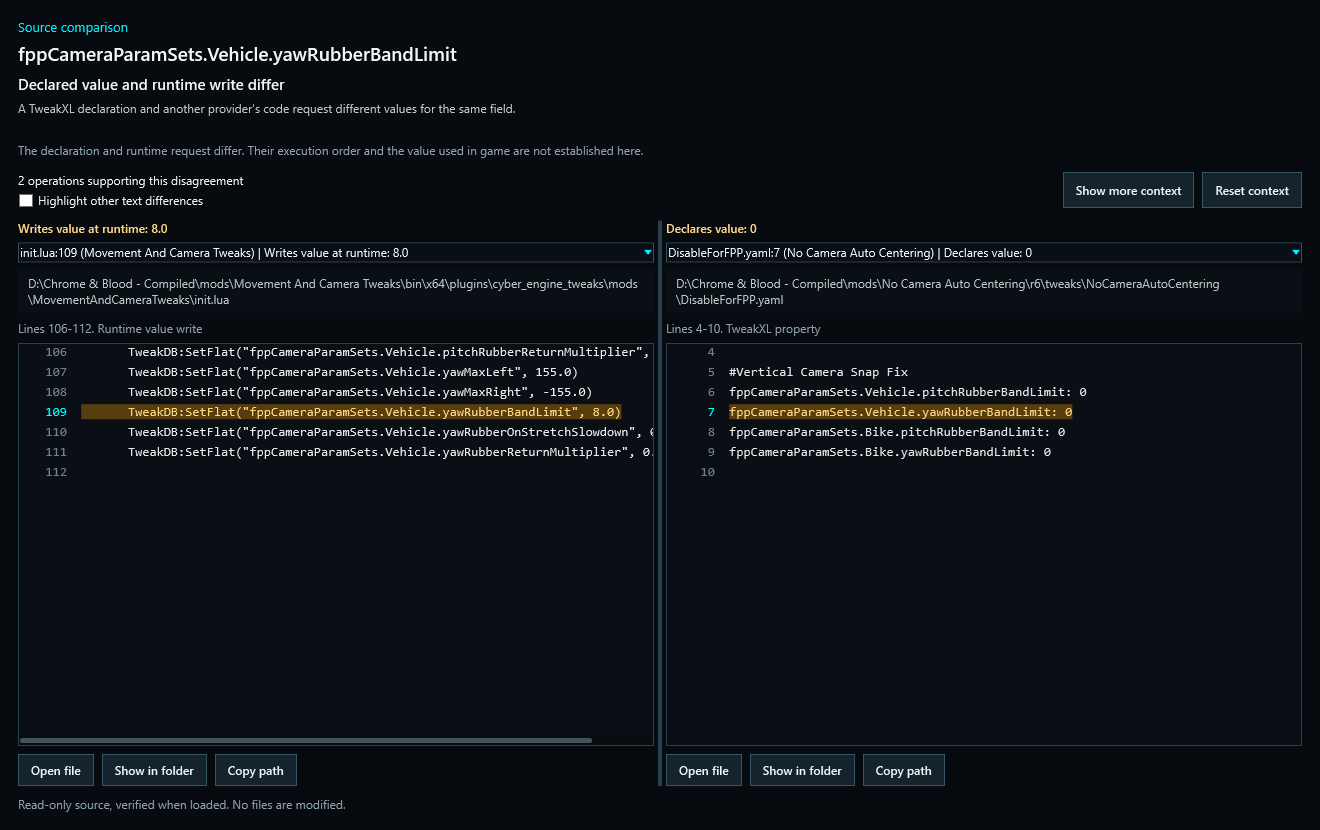
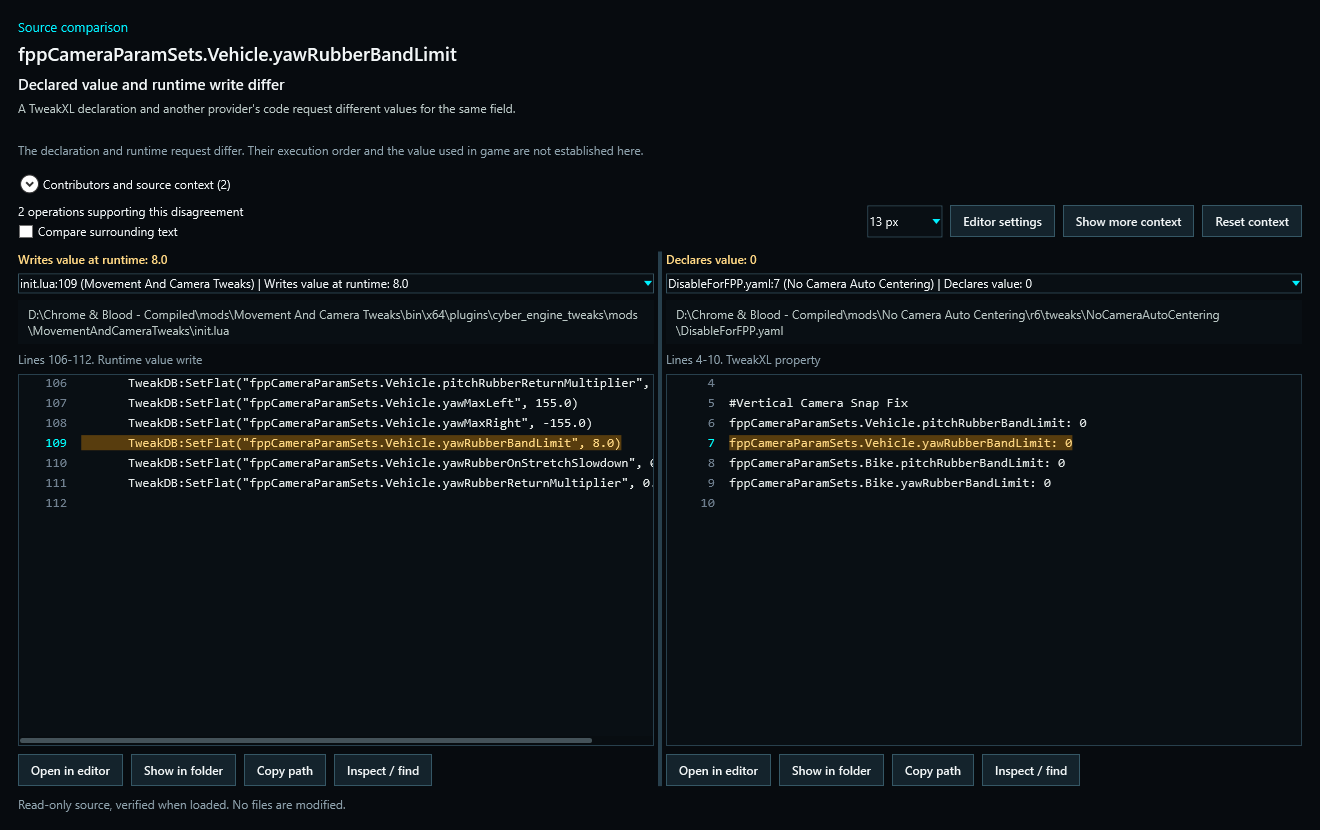
Prepare Conflict Studio 1.0.0

Changed region(s): [[0.0, 0.1807, 0.9939, 0.6024], [0.528, 0.9036, 0.8386, 0.9639], [0.0621, 0.9036, 0.3417, 0.9639]]

diff --git a/tests/ConflictStudio.App.Tests/DiagnosticLogTests.cs b/tests/ConflictStudio.App.Tests/DiagnosticLogTests.cs
@@ -117,7 +117,7 @@ $runner = {
     return 0
 }
 try {
-    & $scriptPath -RepositoryRoot $repositoryRoot -OutputRoot $outputRoot -CommandRunner $runner
+    & $scriptPath -Version '0.5.0' -RepositoryRoot $repositoryRoot -OutputRoot $outputRoot -CommandRunner $runner
     exit 9
 }
 catch {
@@ -144,7 +144,7 @@ catch {
     [TestMethod]
     public void ApplicationAssemblyUsesThePublishedProductVersion()
     {
-        Assert.AreEqual("0.5.0", typeof(MainWindow).Assembly.GetName().Version?.ToString(3));
+        Assert.AreEqual("1.0.0", typeof(MainWindow).Assembly.GetName().Version?.ToString(3));
     }
 
     private static string RepositoryRoot()

diff --git a/README.md b/README.md
@@ -2,7 +2,7 @@
 
 Conflict Studio shows what is happening inside one Cyberpunk 2077 mod profile. It reads MO2, Vortex, or the deployed game folder and traces archive order, loose files, REDmods, RedScript, CET hooks, TweakXL changes, and ArchiveXL manifests.
 
-This is a beta. Keep a backup and read the preview before changing archive order.
+Read the preview before changing archive order. The application backs up each applied order and offers Undo.
 
 ## What it does
 
@@ -10,11 +10,14 @@ This is a beta. Keep a backup and read the preview before changing archive order
 - Finds loose files installed by more than one active mod.
 - Separates replaced methods, wrappers, CET callbacks, and TweakXL changes instead of calling every shared target a conflict.
 - Opens the exact recorded operations behind supported code findings, with highlighted source and expandable context.
+- Lists the contributors to a code finding, searches source text, and follows supported local TweakXL record references.
+- Filters findings by a pair of mods while keeping other contributors visible.
 - Shows the selected source-file path and can open the file, show it in its folder, or copy the path.
 - Lets you show non-conflicting files only inside archives that also contain an overlap.
 - Previews archive-order changes before writing anything.
 - Backs up and verifies `modlist.txt`, then offers Undo.
 - Exports a privacy-filtered support report when something goes wrong.
+- Saves reviews, open notes and view preferences for each profile, and compares saved scans in Changes.
 
 Conflict Studio does not decide that two mods are compatible or incompatible. A shared method or record is only a place to inspect. Compile results, the loaded game state, and an in-game reproduction still matter.
 
@@ -42,7 +45,7 @@ See [GitHub releases](https://github.com/qcargile/Cyberpunk-Conflict-Studio/rele
 
 ## Install
 
-Download `Cyberpunk-Conflict-Studio-0.5.0-Nexus.zip` from Nexus Mods.
+The release ZIP is `Cyberpunk-Conflict-Studio-1.0.0.zip`. The same package supports MO2, Vortex and manual installations.
 
 ### Vortex
 
@@ -72,10 +75,10 @@ Run `ConflictStudio.exe` from the extracted folder, choose Manual, and select th
 The public package is a self-contained Windows x64 executable:
 
 ```powershell
-.\scripts\publish-win-x64.ps1 -Version 0.5.0
+.\scripts\publish-win-x64.ps1 -Version 1.0.0
 ```
 
-The script writes the release outside the repository and verifies the package manifest and ZIP contents. Release settings live in `release/0.5.0.json`.
+The script writes the release outside the repository and verifies the package manifest and ZIP contents. Release settings live in `release/1.0.0.json`.
 
 ## Credits
 
